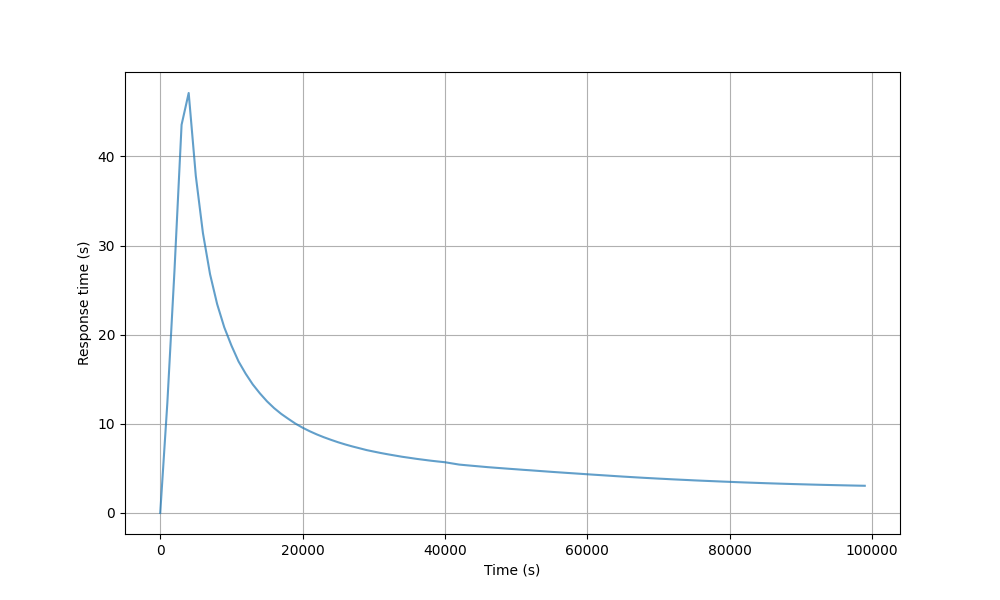
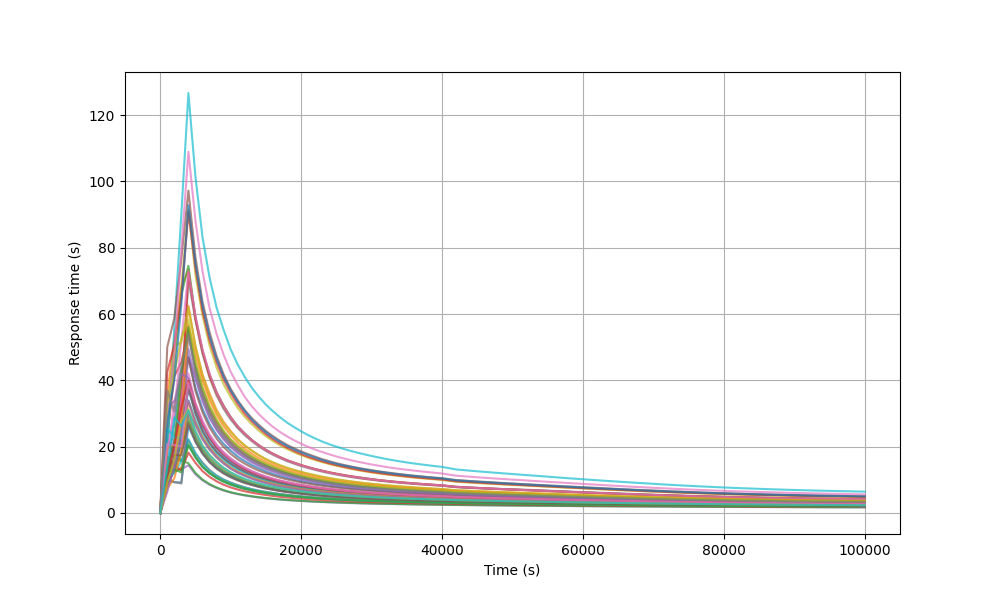
run simulazioni

diff --git a/main.py b/main.py
@@ -199,7 +199,7 @@ def start_scaling_sim():
 
         else:
             stop = STOP
-            vs.REPLICATIONS = 1  # per la simulazione normale facciamo più repliche
+            vs.REPLICATIONS = 50  # per la simulazione normale facciamo più repliche
             file_name = "scaling_model_finite_results.csv"
             sim_type = "finite_simulation/scaling_model"
 
@@ -266,7 +266,7 @@ def start_scaling_2fa_sim():
             sim_type = "transient_analysis/scaling_2fa_model"
         else:
             stop = STOP
-            vs.REPLICATIONS = 1
+            vs.REPLICATIONS = 50
             file_name = "scaling_2fa_model_finite_results.csv"
             sim_type = "finite_simulation/scaling_2fa_model"
 
